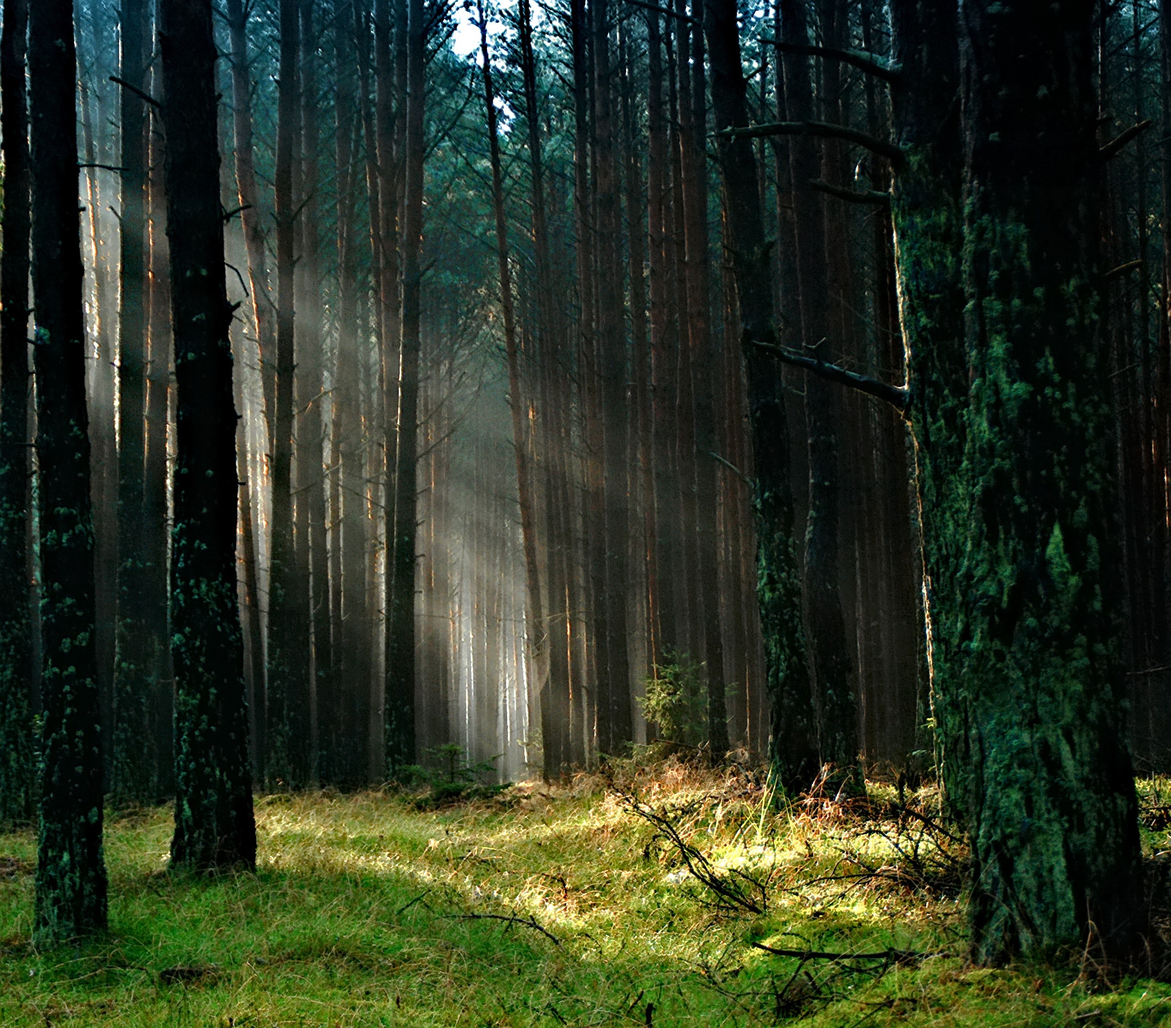
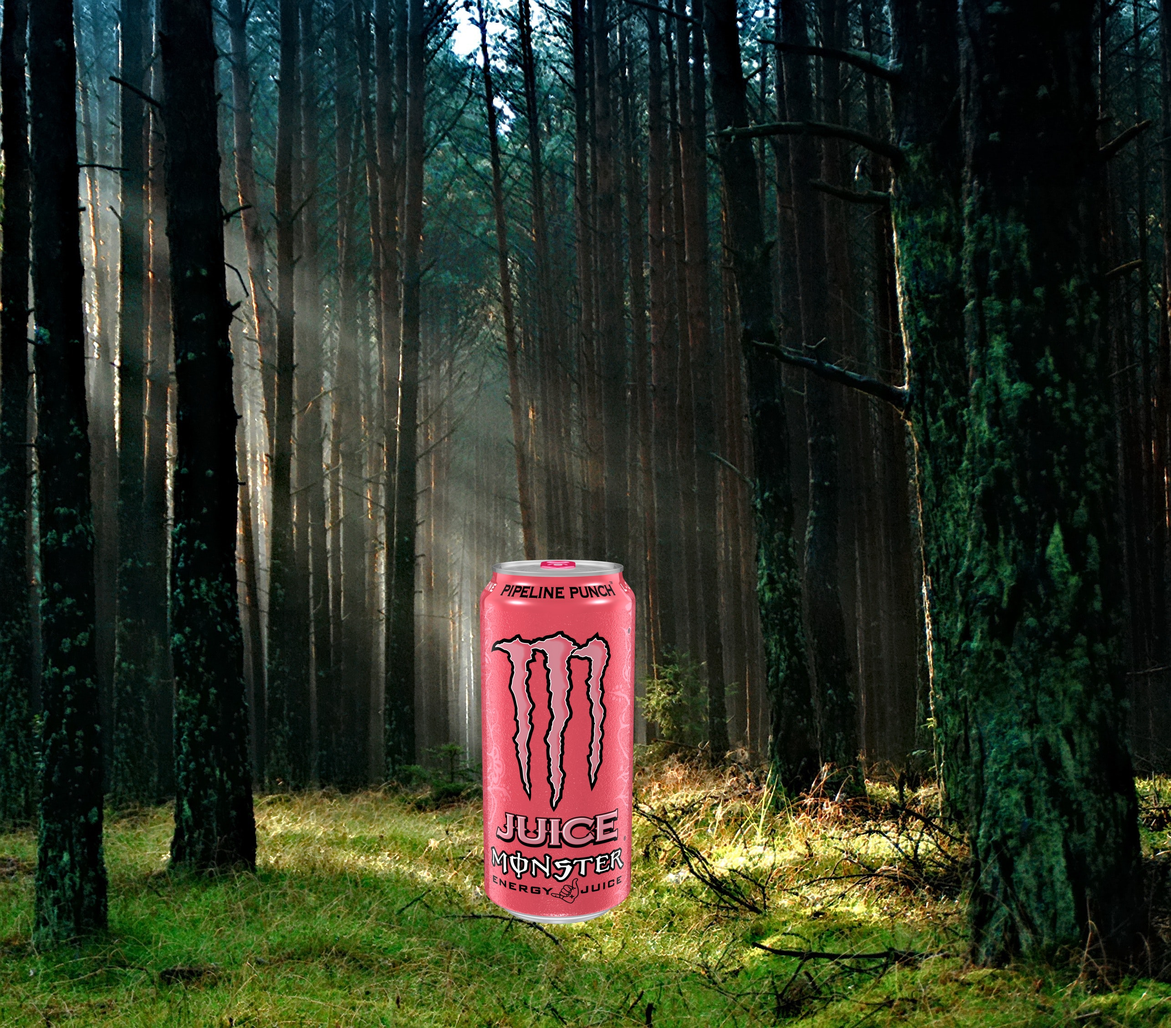
added selection to forest

Changed region(s): [[0.4045, 0.5275, 0.5601, 0.8998]]

diff --git a/views.py b/views.py
@@ -36,19 +36,22 @@ What is its name?
 </form>
 """
 ENCOUNTER_MONSTER_FOREST = """
-You are in {}. You found a monster!<br>
+You are in the forest now. You found a Monster!<br>
 
-<img src="static/Forest.jpg" /><br>
-<img src="http://placecorgi.com/260/180" /><br>
+<img src="/static/Forest.jpg" width="400" height="200"/><br>
 
-What is its name?
+What would you like to do with it?
 
 <!-- Form allows you to have more text entry -->    
 <form action="/save/name/">
     <input type="text" name="player"><br>
+    <select name="action">
+        <option value="Drink it">Drink it</option>
     <input type="submit" value="Submit"><br>
 </form>
+
 """
+
 
 @simple_route('/goto/<where>/')
 def open_door(world: dict, where: str) -> str:
